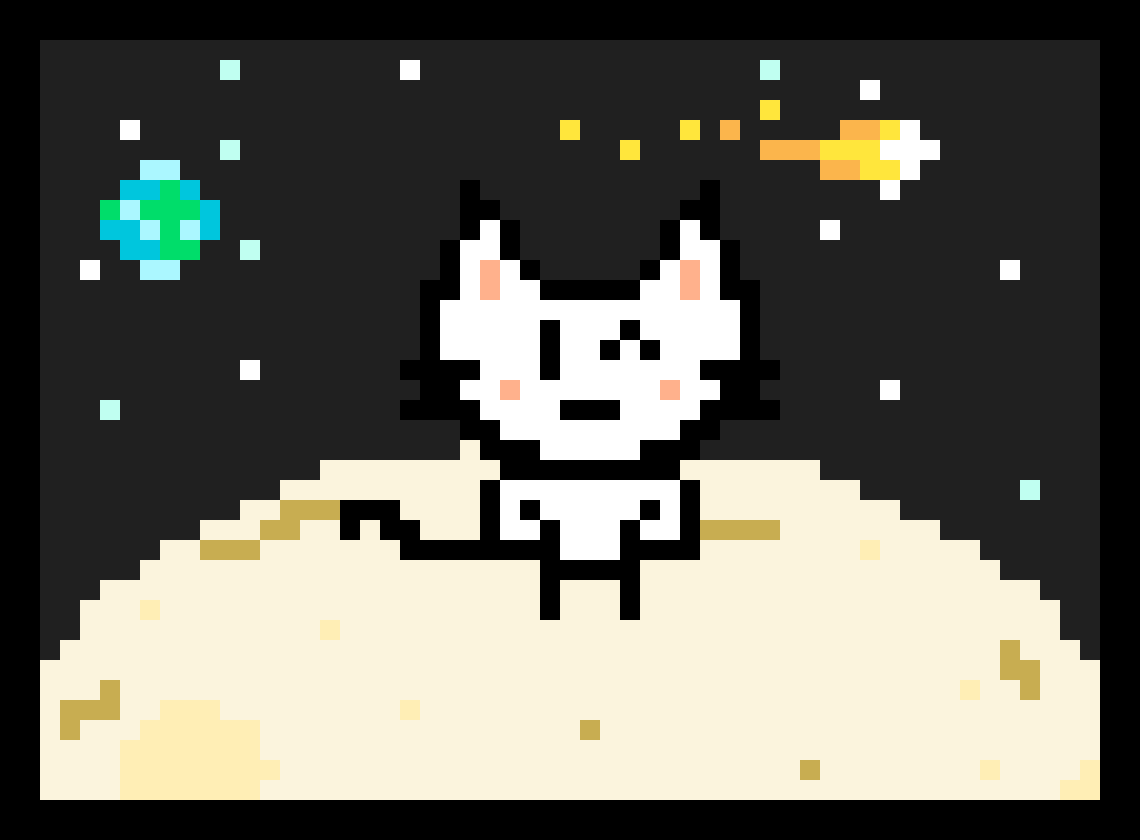
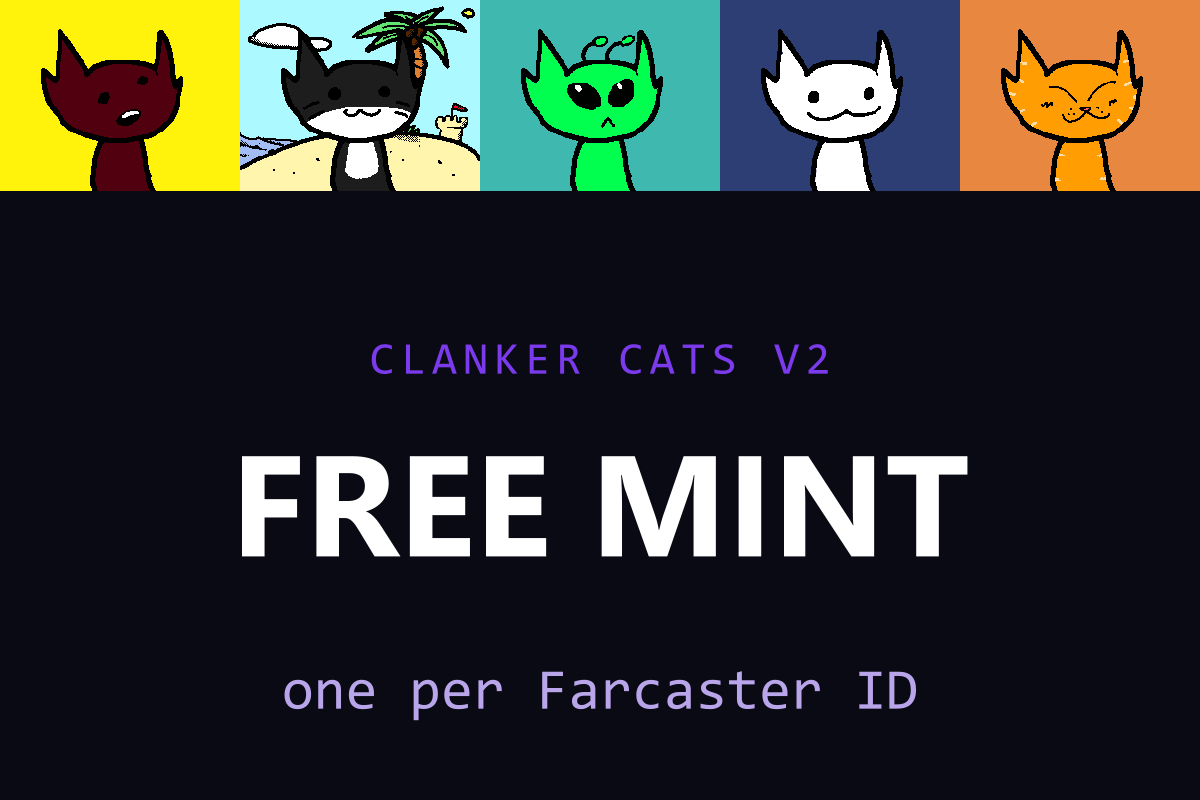
@ Make the mini app a mint: correct manifest, spec-sized assets, working webhook
The app was still advertising itself as the V1 collection viewer, and three of
its assets were the wrong shape for the Mini App spec.

Manifest:
- switch the top-level key from the legacy "frame" to "miniapp" (both are
  emitted, older clients still read "frame")
- homeUrl and buttonTitle now point at /mint instead of the viewer
- add heroImageUrl, tagline, tags, og* fields and requiredChains eip155:8453

Assets, regenerated from the real layers by make-miniapp-assets.mjs:
- icon.png    1140x840 → 1024x1024, alpha stripped (the spec disallows it)
- splash.png  1140x840 → 200x200
- image.png   1140x840 (1.36:1) → 1200x800, the required 3:2
- hero.png    new, 1200x630

Embeds: lib/miniapp.ts builds both fc:miniapp and fc:frame from one source and
rejects a button title over 32 chars at build time. The mint page is a client
component, so its metadata lives in app/mint/layout.tsx.

/api/webhook did not exist despite being named in the manifest, so every
"add mini app" event 404d. It now acknowledges the event; persisting the
notification tokens still needs a store.

@

diff --git a/app/api/webhook/route.ts b/app/api/webhook/route.ts
@@ -1,0 +1,38 @@
+import { NextRequest, NextResponse } from 'next/server'
+
+/**
+ * Farcaster Mini App webhook.
+ *
+ * The manifest advertises this URL, and the client POSTs here when a user adds
+ * or removes the app, or enables/disables notifications. It must return 2xx —
+ * a 404 here makes the add look broken to the user.
+ *
+ * Events: miniapp_added, miniapp_removed,
+ *         notifications_enabled, notifications_disabled
+ *
+ * `miniapp_added` and `notifications_enabled` carry a notificationDetails
+ * { url, token } pair, which is what you'd need to push a notification later
+ * ("your cat is hungry", "reveal is live"). Persisting those needs a store —
+ * see the Supabase note in goals.md — so for now the event is acknowledged and
+ * logged, not saved. Acknowledging is the part that has to work today.
+ */
+export async function POST(req: NextRequest) {
+  let body: unknown
+  try {
+    body = await req.json()
+  } catch {
+    return NextResponse.json({ error: 'invalid json' }, { status: 400 })
+  }
+
+  // The payload is signed by the client; verification matters only once we act
+  // on it. Logging the shape is enough while nothing is persisted.
+  const event = (body as { header?: string; payload?: string })?.payload
+  console.log('[miniapp webhook]', event ? `payload ${String(event).slice(0, 32)}…` : 'no payload')
+
+  return NextResponse.json({ ok: true })
+}
+
+// Some clients probe with GET before registering the webhook.
+export async function GET() {
+  return NextResponse.json({ ok: true, service: 'clanker-cats miniapp webhook' })
+}

diff --git a/lib/miniapp.ts b/lib/miniapp.ts
@@ -1,0 +1,48 @@
+/**
+ * Farcaster Mini App embed metadata.
+ *
+ * When the URL is cast, this JSON decides what the card looks like and where the
+ * button lands. Both `fc:miniapp` and `fc:frame` carry identical content —
+ * `fc:frame` is the legacy name and older clients still read it.
+ *
+ * Spec: https://miniapps.farcaster.xyz/docs/specification
+ *   imageUrl      must be 3:2   (public/image.png is 1200x800)
+ *   splashImage   200x200       (public/splash.png)
+ *   button.title  max 32 chars
+ */
+export const APP_URL = 'https://ccat-viewer.vercel.app'
+
+type EmbedOpts = {
+  /** Max 32 characters — longer titles are truncated by the client. */
+  button: string
+  /** Where the button lands. Defaults to the mint. */
+  url?: string
+  /** 3:2 image for the card. */
+  image?: string
+}
+
+export function embed({ button, url = `${APP_URL}/mint`, image = `${APP_URL}/image.png` }: EmbedOpts) {
+  if (button.length > 32)
+    throw new Error(`Mini App button title must be <= 32 chars: "${button}" is ${button.length}`)
+
+  return JSON.stringify({
+    version: '1',
+    imageUrl: image,
+    button: {
+      title: button,
+      action: {
+        type: 'launch_frame',
+        url,
+        name: 'Clanker Cats',
+        splashImageUrl: `${APP_URL}/splash.png`,
+        splashBackgroundColor: '#0a0a14',
+      },
+    },
+  })
+}
+
+/** Both meta tags, ready to spread into a Next `metadata.other`. */
+export function embedTags(opts: EmbedOpts) {
+  const json = embed(opts)
+  return { 'fc:miniapp': json, 'fc:frame': json }
+}

diff --git a/app/layout.tsx b/app/layout.tsx
@@ -1,26 +1,18 @@
 import type { Metadata } from 'next'
 import { Providers } from '@/lib/providers'
+import { embedTags, APP_URL } from '@/lib/miniapp'
 import './globals.css'
 
 export const metadata: Metadata = {
-  title: 'ClankerCats Viewer',
-  description: 'View your on-chain ClankerCat NFTs',
-  other: {
-    'fc:frame': JSON.stringify({
-      version: '1',
-      imageUrl: 'https://ccat-viewer.vercel.app/image.png',
-      button: {
-        title: 'View My CCats',
-        action: {
-          type: 'launch_frame',
-          url: 'https://ccat-viewer.vercel.app',
-          name: 'ClankerCats',
-          splashImageUrl: 'https://ccat-viewer.vercel.app/splash.png',
-          splashBackgroundColor: '#0a0a14',
-        }
-      }
-    })
-  }
+  title: 'Clanker Cats',
+  description: '1111 free pixel cats on Base. One per Farcaster account.',
+  openGraph: {
+    title: 'Clanker Cats V2',
+    description: '1111 free pixel cats on Base. One per Farcaster account.',
+    images: [`${APP_URL}/image.png`],
+  },
+  // Casting any page of the app opens straight into the mint.
+  other: embedTags({ button: 'Mint a Cat' }),
 }
 
 export default function RootLayout({ children }: { children: React.ReactNode }) {

diff --git a/app/mint/layout.tsx b/app/mint/layout.tsx
@@ -1,0 +1,22 @@
+import type { Metadata } from 'next'
+import { embedTags, APP_URL } from '@/lib/miniapp'
+
+/**
+ * The mint page is a client component, so its embed metadata lives here.
+ * Casting ccat-viewer.vercel.app/mint shows the mint card and the button drops
+ * the user straight into minting rather than the collection viewer.
+ */
+export const metadata: Metadata = {
+  title: 'Mint a Clanker Cat',
+  description: '1111 free pixel cats on Base. One per Farcaster account. Eleven are Mystery.',
+  openGraph: {
+    title: 'Clanker Cats V2 — Free Mint',
+    description: '1111 free pixel cats on Base. One per Farcaster account.',
+    images: [`${APP_URL}/image.png`],
+  },
+  other: embedTags({ button: 'Mint a Cat' }),
+}
+
+export default function MintLayout({ children }: { children: React.ReactNode }) {
+  return children
+}
